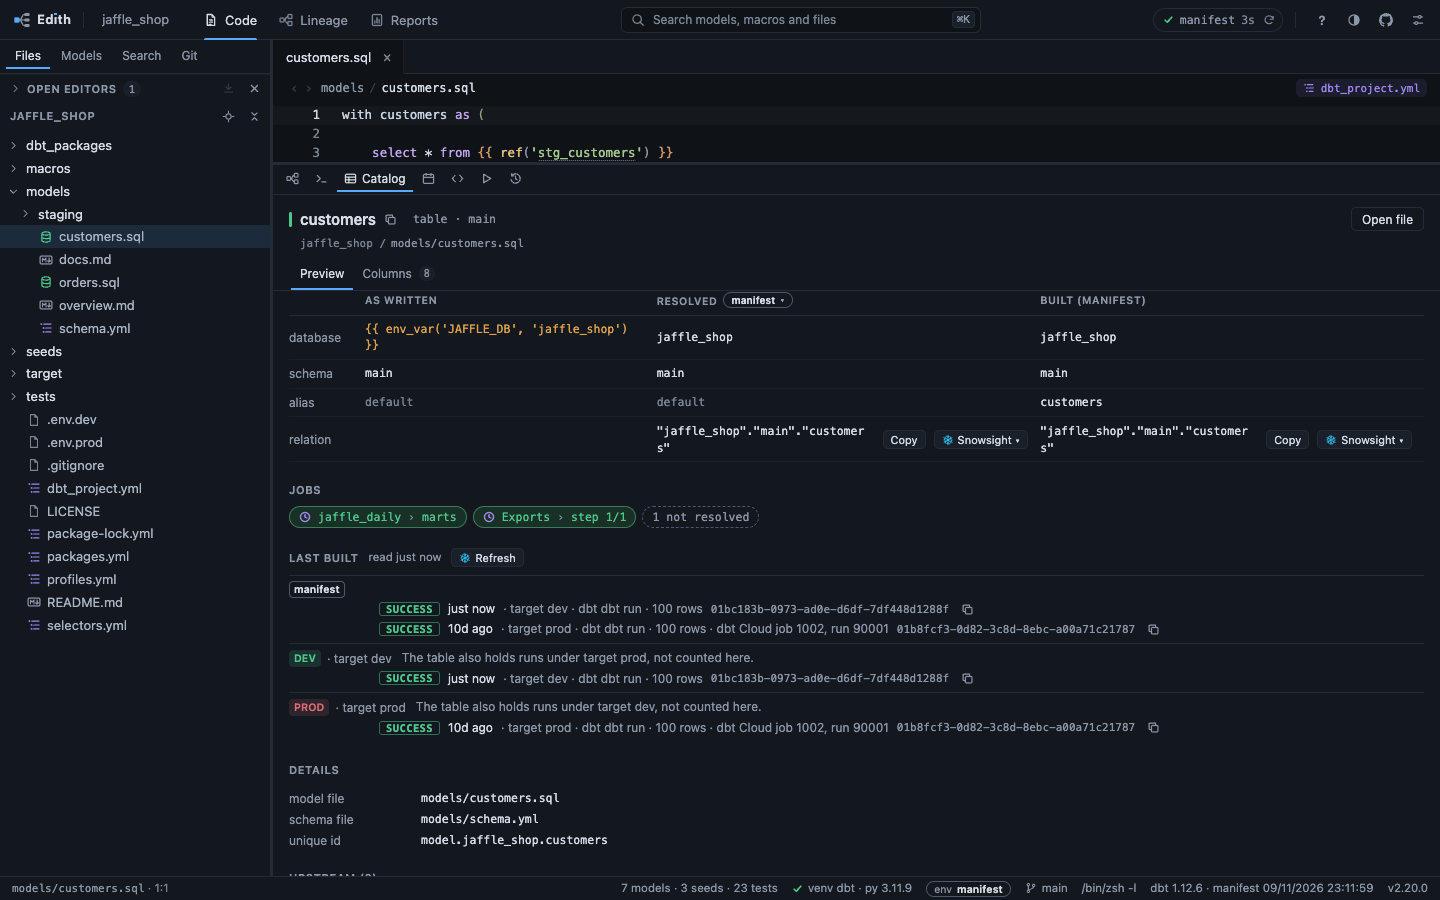
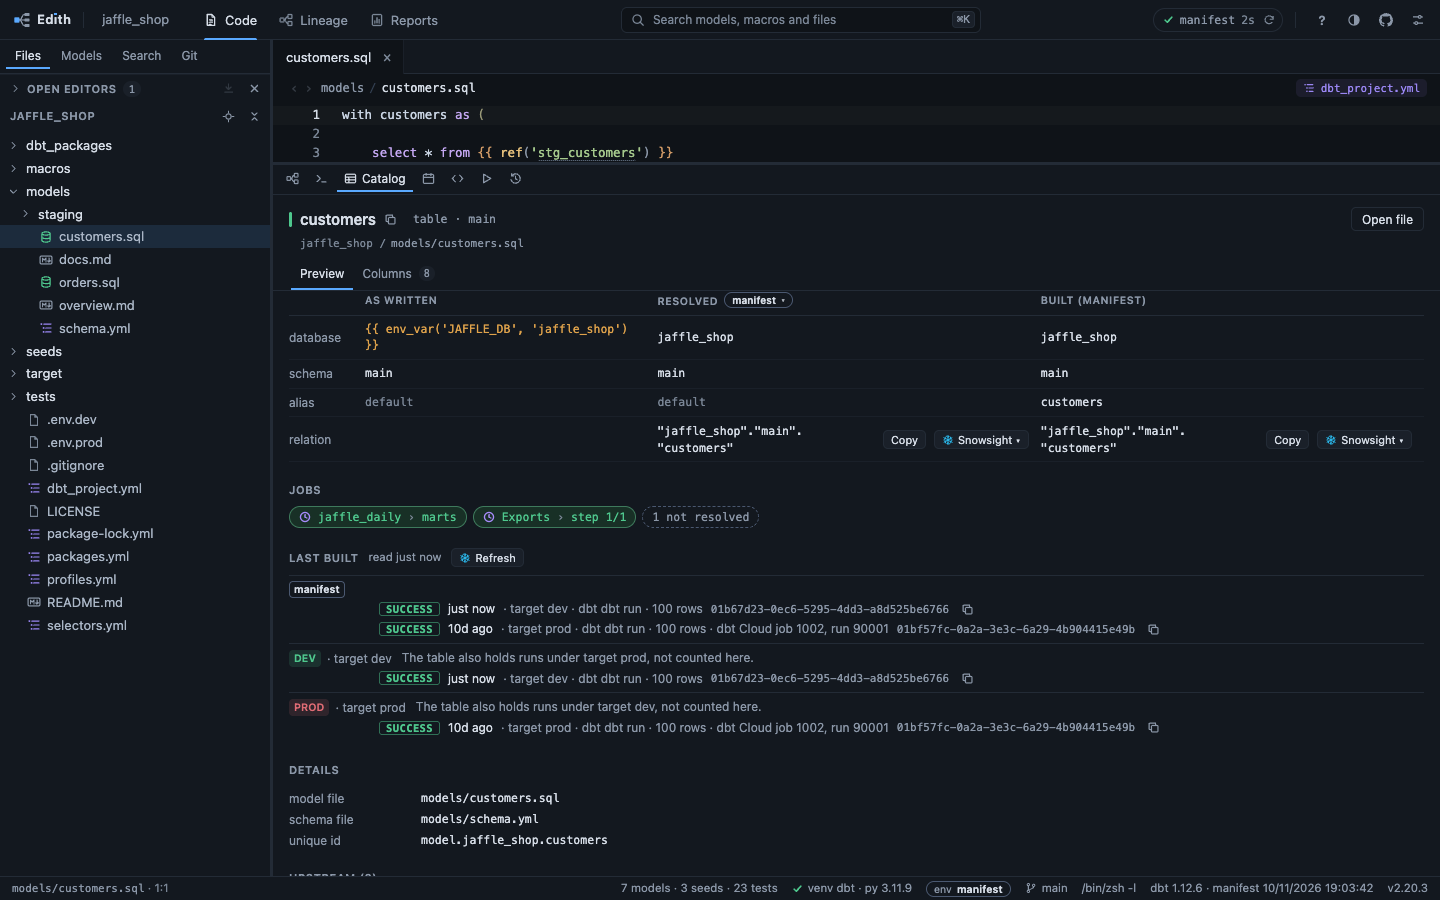
Keep the Catalog's filter and names readable (#196)
Two things in the Catalog got hard to read as a model or a dock changed
size. The Columns filter is a 230px box with its count inside, and the
count grows with the model (`12 of 200 · 180/200 typed`), so on a wide
model the word being typed was left about 20px. And a relation's name in
the Location table broke anywhere, in the middle of a schema's or a
table's name, once the dock was narrow. The box now grows with its
count, and a name breaks after its dots.

## What changes for someone using it

| | Before | Now |
| --- | --- | --- |
| The filter box while a word is typed on a wide model | 230px, the count taking most of it, the word squeezed to two or three characters | 230px at least, wider by what the count needs, the word keeping about ten characters; the width set on the first key, not moving with each digit |
| The filter box with nothing typed, or on a small model | 230px | 230px, the same |
| A relation's name in a narrow dock (`"jaffle_shop"."main"."customers"`) | broken every two or three characters (`"ja` / `ffl` / `e_s` / `ho` / `p"."m`...), with Snowflake on Copy and Snowsight overlapping it, the label `relation` one letter a line | broken after a dot (`"jaffle_shop".` / `"main".` / `"customers"`), Copy and Snowsight under it, the label whole |

Version 2.20.3, above 2.20.2. No decision: no rule changes.

## Shots

Jaffle Shop, on main (2.20.1) and with this change (2.20.3). The filter
has `order` typed and its count set by hand to what a model of 200
[…]

diff --git a/web/app.css b/web/app.css
@@ -3169,6 +3169,17 @@ kbd {
 .loc th .envpill { cursor: pointer; text-transform: none; }
 .relcell { display: flex; align-items: center; gap: 8px; }
 .relcell span { flex: 1; min-width: 0; }
+/* The name breaks after a dot (the <wbr>s), unlike the other cells' break-all,
+   and inside a part only when that part is wider than its line. */
+.relcell .relname { word-break: normal; overflow-wrap: break-word; }
+/* A table's column shrinks to its cells' least width, which the flex row let fall
+   below the name's longest part; held to it, the name breaks only after a dot. The
+   buttons go under the name when the cell is narrow, as on the card, so only a
+   part wider than a very narrow dock makes the pane scroll sideways. The labels
+   keep their words for the same reason. */
+.loc .relcell { flex-wrap: wrap; }
+.loc .relcell .relname { min-width: min-content; }
+.loc td.k { word-break: normal; }
 .relcell .btn { flex: 0 0 auto; font-family: var(--ui); }
 /* The card's location (0160): a key, its lines, the relation, in a list that
    wraps wherever it has to rather than clip a name. A key set one way at every
@@ -3216,16 +3227,18 @@ span.envpill:hover { filter: none; }
 .coltools { display: flex; align-items: center; flex-wrap: wrap; gap: 8px; font-size: 12px; color: var(--fg-dim); margin-bottom: 8px; }
 .coltools .grow { flex: 1; }
 /* The filter is a boxed field with its count inside at the right: the
-   count shown and the count typed, which cannot be read as part of the word. */
+   count shown and the count typed, which cannot be read as part of the word.
+   The box is 230px at least and grows with its count: a fixed width let a long
+   count squeeze the typed word to a few characters. */
 .colfind {
-  display: flex; align-items: center; gap: 6px; width: 230px; height: 26px; box-sizing: border-box; padding: 0 8px;
+  display: flex; align-items: center; gap: 6px; width: auto; min-width: 230px; max-width: 100%; height: 26px; box-sizing: border-box; padding: 0 8px;
   border: 1px solid var(--line); border-radius: 6px; background: var(--bg); color: var(--fg-mute);
 }
 .colfind:focus-within { border-color: rgba(var(--accent-rgb), .7); }
 .colfind-ico { width: 13px; height: 13px; flex: 0 0 auto; fill: none; stroke: currentColor; stroke-width: 1.5; stroke-linecap: round; stroke-linejoin: round; }
-.colfilter { flex: 1 1 0; min-width: 0; padding: 0; border: 0; outline: none; background: transparent; color: var(--fg); font: 12px var(--mono); }
+.colfilter { flex: 1 1 auto; width: 10ch; min-width: 0; padding: 0; border: 0; outline: none; background: transparent; color: var(--fg); font: 12px var(--mono); }
 .colfilter::placeholder { color: var(--fg-mute); }
-.colcount { flex: 0 0 auto; font: 11px var(--mono); font-variant-numeric: tabular-nums; white-space: nowrap; }
+.colcount { flex: 0 0 auto; text-align: right; font: 11px var(--mono); font-variant-numeric: tabular-nums; white-space: nowrap; }
 .coltools .cllpick { height: 24px; box-sizing: border-box; gap: 7px; padding: 0 8px 0 9px; border-radius: 12px; background: none; font-size: 12px; }
 .coltools .cllpick:hover { background: var(--hover); }
 .coltools .btn.ghost { height: 20px; padding: 0 7px; font-size: 11px; }

diff --git a/web/tests/catalog.js b/web/tests/catalog.js
@@ -10,6 +10,7 @@ var Lineage = { subtitleParts: subtitleParts };
 var app = read('web/app.js');
 eval(app.slice(app.indexOf('function catalogMeta'), app.indexOf('function renderCatalog')));
 eval(app.slice(app.indexOf('function columnCountText'), app.indexOf('function catalogColumns')));
+eval(app.slice(app.indexOf('function relationParts'), app.indexOf('function relationBody')));
 eval(app.slice(app.indexOf('function reachParts'), app.indexOf('/* Whether the Columns table has a Lineage column')));
 eval(app.slice(app.indexOf('function jobsChipText'), app.indexOf('/* One chip per step that runs the node')));
 
@@ -61,6 +62,20 @@ check('filtering', columnCountText(3, 8, 7, true), '3 of 8 \u00b7 7/8 typed');
 check('filtering to none', columnCountText(0, 8, 7, true), '0 of 8 \u00b7 7/8 typed');
 check('no type at all is the sentence beside the box, not a count', columnCountText(8, 8, 0, false), '');
 check('filtering with no type', columnCountText(2, 8, 0, true), '2 of 8');
+check('the count keeps its widest form while a word is typed, in ch', columnCountWidth(200, 180, true), '26ch');
+check('with no type the widest form is the kept of total', columnCountWidth(200, 0, true), '10ch');
+check('nothing typed keeps no room', columnCountWidth(200, 180, false), '');
+
+print('--- a relation name breaks after its dots ---');
+// What relationBody appends: a <wbr> between two pieces, never after the last.
+function nameParts(t) { return relationParts(t).join('|'); }
+check('a quoted name', nameParts('"jaffle_shop"."main"."customers"'), '"jaffle_shop".|"main".|"customers"');
+check('an unquoted name', nameParts('analytics.dbt_alice.stg_orders'), 'analytics.|dbt_alice.|stg_orders');
+check('a name with no dot is one piece, so no <wbr>', relationParts('customers'), ['customers']);
+check('a trailing dot ends the last piece, no <wbr> after it', relationParts('main.'), ['main.']);
+check('the pieces read back as the name, whatever it holds',
+  ['"jaffle_shop"."main"."customers"', 'analytics.dbt_alice.stg_orders', 'customers', 'main.', 'a..b', ''].map(function (t) { return relationParts(t).join('') === t; }),
+  [true, true, true, true, true, true]);
 
 print('\n--- the halves of a Lineage cell ---');
 // Nodes without a DOM: a tag and a text.
@@ -93,3 +108,7 @@ check('a test chip has no margin of its own: its box gaps them, so a row stays o
   [!/margin/.test(rule('.testchip')), /gap:\s*4px/.test(rule('.cols .testchips'))], [true, true]);
 check('a job chip wraps rather than overflow', /min-height:\s*22px/.test(rule('.cat-body .jobchip')), true);
 check('Sort is a tray of segments, the one in front raised', /box-shadow/.test(rule('.coltools .segbtn.active')), true);
+check('a relation name breaks at its dots, inside a part only when the part alone is too long',
+  [/word-break:\s*normal/.test(rule('.relcell .relname')), /overflow-wrap:\s*break-word/.test(rule('.relcell .relname'))], [true, true]);
+check('in the Location table the name keeps its longest part whole and the buttons wrap under it',
+  [/min-width:\s*min-content/.test(rule('.loc .relcell .relname')), /flex-wrap:\s*wrap/.test(rule('.loc .relcell'))], [true, true]);

diff --git a/web/app.js b/web/app.js
@@ -16844,6 +16844,12 @@ function relationCell(text, reason, what, materialized) {
   return td;
 }
 
+/* The name cut after each dot, so a narrow cell may break there (a <wbr> goes
+   between two pieces, never at the end) and the pieces read back as the name. */
+function relationParts(text) {
+  return text.match(/[^.]*\.|[^.]+$/g) || [];
+}
+
 /* What a relation row holds, in a cell or in the card's list: the name and its
    buttons, or why there is none. */
 function relationBody(text, reason, what, materialized) {
@@ -16853,7 +16859,12 @@ function relationBody(text, reason, what, materialized) {
   const wrap = document.createElement('div');
   wrap.className = 'relcell';
   const name = document.createElement('span');
-  name.textContent = text;
+  name.className = 'relname';
+  const parts = relationParts(text);
+  parts.forEach((part, i) => {
+    name.append(part);
+    if (i < parts.length - 1) name.append(document.createElement('wbr'));
+  });
   name.title = what;
   const copy = document.createElement('button');
   copy.type = 'button';
@@ -18660,6 +18671,12 @@ function columnCountText(kept, total, typed, filtering) {
   return [filtering ? `${kept} of ${total}` : '', typed ? `${typed}/${total} typed` : ''].filter(Boolean).join(' \u00b7 ');
 }
 
+/* The room the count keeps while a word is typed: its widest form, in ch
+   (mono, tabular: one character each), '' with nothing typed. */
+function columnCountWidth(total, typed, filtering) {
+  return filtering ? columnCountText(total, total, typed, true).length + 'ch' : '';
+}
+
 function catalogColumns(body, n) {
   if (!n.columns.length) {
     if (S.colReveal === n.id && S.dock === 'catalog') S.colReveal = '';
@@ -18920,6 +18937,9 @@ function catalogColumns(body, n) {
       r.name.append(after);
     }
     shown.textContent = columnCountText(kept, rows.length, typed, !!q);
+    // The widest this count can be, so the box widens once when a word is typed
+    // and stays put as the kept count gains or loses digits (mono, tabular: 1ch a character).
+    shown.style.minWidth = columnCountWidth(rows.length, typed, !!q);
     none.textContent = q && !kept ? `No column name contains "${q}".` : '';
     none.classList.toggle('hidden', !none.textContent);
   };

diff --git a/docs/state.md b/docs/state.md
@@ -3239,10 +3239,11 @@ of its own, and each panel updates the tour, its page under
     - The Sort tray is `--bg` and its raised segment `--bg-3`, as the dock's
       mode switch is, since the pane under it is `--bg-2`; the board draws the
       tray `--bg-2` on a `--bg` pane. The pane's own fill is the dock step's.
-    - The filter box keeps its 230px with the count inside: while a word is
+    - ~~The filter box keeps its 230px with the count inside: while a word is
       typed the count (`3 of 8 · 7/8 typed`) takes more of the box as the
       column count grows, and on a model of a few hundred columns leaves the
-      word about 20px.
+      word about 20px.~~ Fixed in 2.20.3: the box is 230px at least and grows
+      with its count, the word keeping about ten characters.
     - The columns table is still a `table`, not the board's grid of rows, so a
       row's hover tint stops at its cells and the board's 8px bleed is not
       drawn.
@@ -3250,8 +3251,11 @@ of its own, and each panel updates the tour, its page under
       filled for a scheduled one, the warning's for one not read), where the
       board draws every chip on `--line`; only its shape and the clock are the
       board's.
-    - A relation's name wraps in the middle of a word in a narrow dock, as it did
-      before the redesign.
+    - ~~A relation's name wraps in the middle of a word in a narrow dock, as it did
+      before the redesign.~~ Fixed in 2.20.3: it breaks after a dot, its
+      buttons going under it when the cell is narrow; the table is held to the
+      longest part of a name, so a part wider than a very narrow dock (40
+      characters under about 760px) makes the pane scroll sideways.
     - ~~The hover card's column list keeps its amber type: `--fg-mute` there is
       the shell step's (21).~~ Settled in 2.20.0 (0166).
 52. **The Reports' limits (2.17.0).**

diff --git a/CHANGELOG.md b/CHANGELOG.md
@@ -13,6 +13,13 @@ points at the decision behind it. A version's date is the day its bump merged,
 which tags and releases it with its section here as the notes (0045): the
 newest dated heading has to be the version `Cargo.toml` names.
 
+## 2.20.3 - 2026-11-10
+
+- Widen the Catalog's column filter with its count while a word is typed, so
+  the word stays readable on a model with many columns.
+- Break a relation's name in the Catalog's Location table after a dot, not in
+  the middle of a word.
+
 ## 2.20.2 - 2026-11-10
 
 - Say `The levels could not be counted.` in a depth menu when the request failed,
